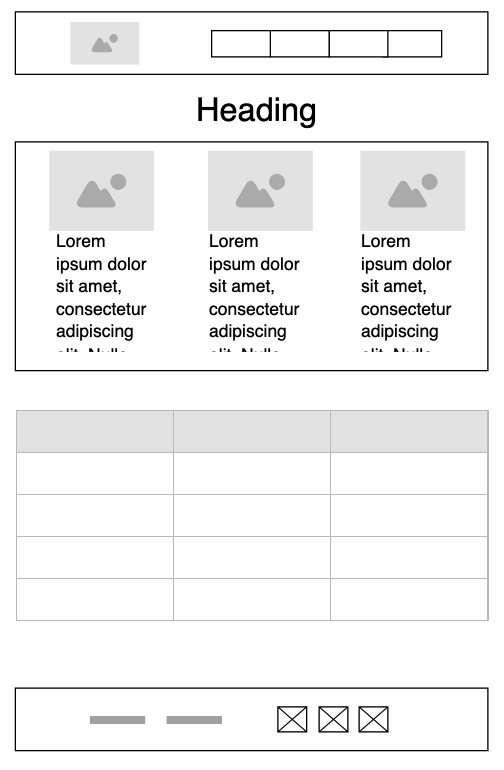
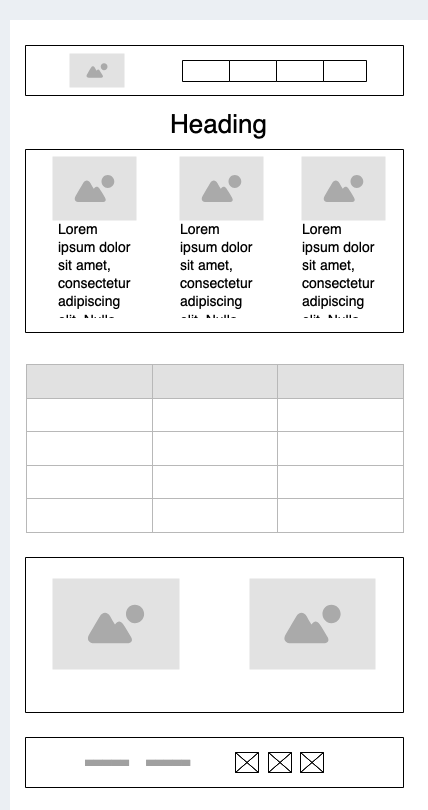
Updates to trips page html and css

diff --git a/wwr/trips.html b/wwr/trips.html
@@ -51,7 +51,56 @@
                 nobis explicabo nam nemo molestias!
             </p>
         </div>
-             
+        <table>
+            <caption>
+                White Water Rafting Available trips
+            </caption>
+                <thead>
+                    <tr>
+                        <th scope="col">WWR Trip</th>
+                        <th scope="col">WWR Class Type</th>
+                        <th scope="col">Minimum Age/Weight</th>
+                    </tr> 
+                </thead>
+                <tbody>
+                    <tr>
+                        <th scope="row">Blind Canyon</th>
+                        <th>Class II</th>
+                        <th>13/100 lbs</th>
+                    </tr>
+                    <tr>
+                        <th scope="row">Velvet Ride</th>
+                        <th>Class I</th>
+                        <th>5/50 lbs</th>
+                    </tr>
+                    <tr>
+                        <th scope="row">The Narrows</th>
+                        <th>Class IV</th>
+                        <th>18/150 lbs</th>
+                    </tr>
+                    <tr>
+                        <th scope="row">The Big Cheese</th>
+                        <th>Class V</th>
+                        <th>18/150 lbs</th>
+                    </tr>
+                    <tr>
+                        <th scope="row">The Last Rock</th>
+                        <th>Class III</th>
+                        <th>15/120 lbs</th>
+                    </tr>
+                </tbody>
+            </table>
+
+        <div class="homecontact">
+            <p>Contact Us</p>
+            <p>Home</p>
+            <a href="https://contreo.github.io/wdd130/wwr/contact.html">
+                <img src="images/contact-us.webp" alt="Contact Us image"> 
+             </a>
+             <a href="https://contreo.github.io/wdd130/wrr/index.html">
+                <img src="images/home.webp" alt="Home Page">
+             </a>
+            </div>
     </main>
     <footer>
         <p>©2024 Dry Oar -- Omar Contreras</p>

diff --git a/wwr/styles/rafting.css b/wwr/styles/rafting.css
@@ -133,6 +133,7 @@ footer img {
     display: grid;
     grid-template-columns: repeat(3, 1fr);
     margin: 0 auto;
+    padding: 20px;
     justify-content: space-around;
     gap: 15px;
 }
@@ -142,7 +143,44 @@ footer img {
 }
 .trip p {
     padding: 20px;
+}
 
+table {
+    margin: 0 auto;
+    display: flexbox;
+    justify-content: center;
+    background-color: var(--accent1-colour);
+    border-collapse: collapse;
+    border: 2px solid black;
+    font-size: 1.2rem;
+    letter-spacing: 2px;
+    padding: 10px;
+}
+
+caption {
+    caption-side: top;
+    padding: 10px;
+    font-weight: 400;
+    font-size: 1.5rem;
+    background-color: var(--secondary-colour);
+    color: var(--accent3-colour);
+}
+
+thead {
+    background-color: var(--accent3-colour);
+}
+
+th,
+td {
+    border: 1px solid gray;
+    padding: 10px;
+}
+.homecontact {
+    display: grid;
+    grid-template-columns: 1fr 1fr;
+}
+.homecontact p {
+    font-size: 1.8rem;
 }
 
 
